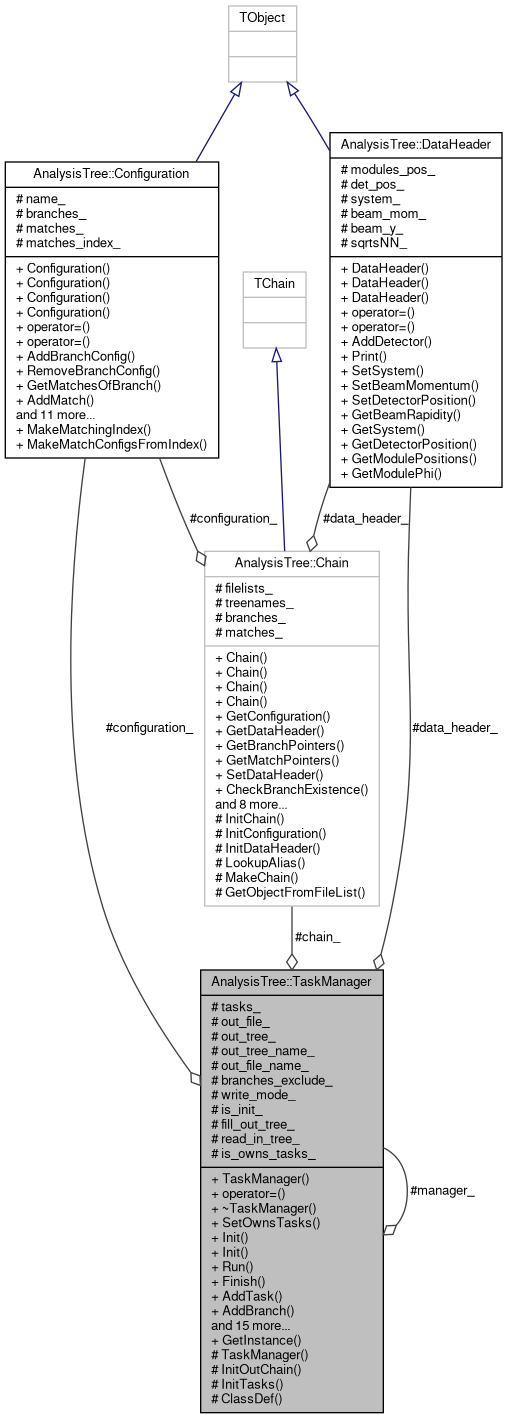
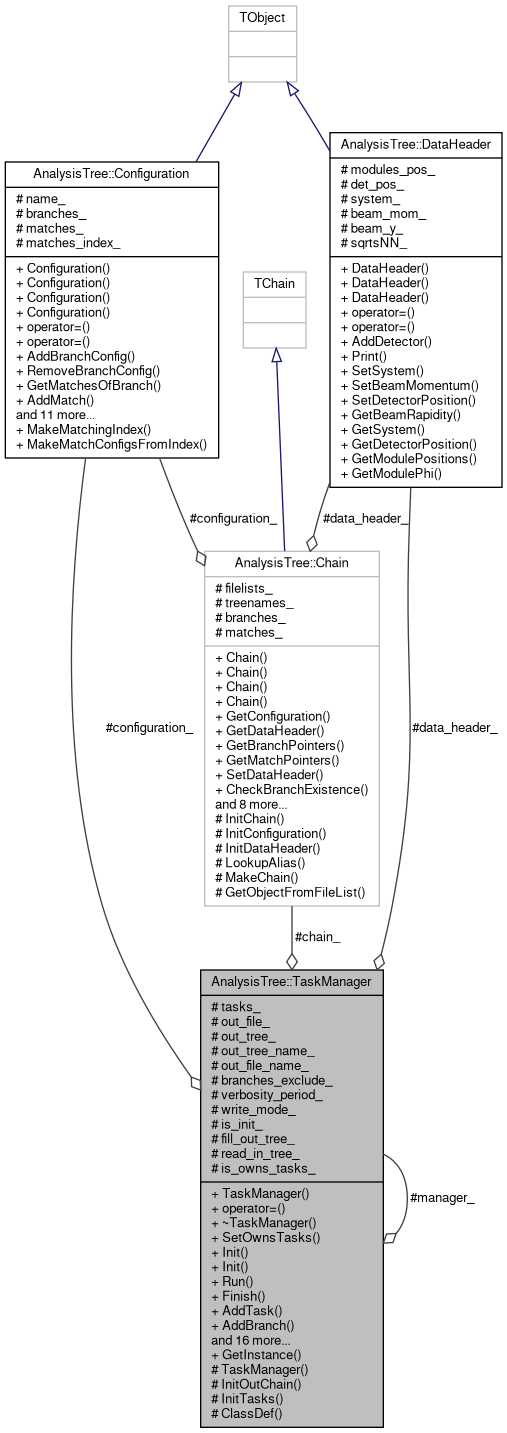
deploy: 243414fe65abaa0fc0d1889b5e8c5e2a42caa9a1

diff --git a/d5/d18/TaskManager_8hpp_source.html b/d5/d18/TaskManager_8hpp_source.html
@@ -212,42 +212,45 @@ $(function() {
 <div class="line"><a id="l00164" name="l00164"></a><span class="lineno">  164</span> </div>
 <div class="line"><a id="l00165" name="l00165"></a><span class="lineno">  165</span>  <span class="keywordtype">void</span> SetWriteMode(eBranchWriteMode mode) { write_mode_ = mode; }</div>
 <div class="line"><a id="l00166" name="l00166"></a><span class="lineno">  166</span>  <span class="keywordtype">void</span> SetBranchesExclude(std::vector&lt;std::string&gt; brex) { branches_exclude_ = std::move(brex); }</div>
-<div class="line"><a id="l00167" name="l00167"></a><span class="lineno">  167</span> </div>
-<div class="line"><a id="l00168" name="l00168"></a><span class="lineno">  168</span>  <span class="keywordtype">void</span> ClearTasks() { tasks_.clear(); }</div>
-<div class="line"><a id="l00169" name="l00169"></a><span class="lineno">  169</span> </div>
-<div class="line"><a id="l00170" name="l00170"></a><span class="lineno">  170</span> <span class="keyword">protected</span>:</div>
-<div class="line"><a id="l00171" name="l00171"></a><span class="lineno">  171</span>  TaskManager() = <span class="keywordflow">default</span>;</div>
-<div class="line"><a id="l00172" name="l00172"></a><span class="lineno">  172</span>  <span class="keyword">static</span> TaskManager* manager_;</div>
-<div class="line"><a id="l00173" name="l00173"></a><span class="lineno">  173</span> </div>
-<div class="line"><a id="l00174" name="l00174"></a><span class="lineno">  174</span>  <span class="keywordtype">void</span> InitOutChain();</div>
-<div class="line"><a id="l00175" name="l00175"></a><span class="lineno">  175</span>  <span class="keywordtype">void</span> InitTasks();</div>
-<div class="line"><a id="l00176" name="l00176"></a><span class="lineno">  176</span> </div>
-<div class="line"><a id="l00177" name="l00177"></a><span class="lineno">  177</span>  <span class="comment">// input data members</span></div>
-<div class="line"><a id="l00178" name="l00178"></a><span class="lineno">  178</span>  Chain* chain_{<span class="keyword">nullptr</span>};</div>
-<div class="line"><a id="l00179" name="l00179"></a><span class="lineno">  179</span>  std::vector&lt;Task*&gt; tasks_{};</div>
-<div class="line"><a id="l00180" name="l00180"></a><span class="lineno">  180</span> </div>
-<div class="line"><a id="l00181" name="l00181"></a><span class="lineno">  181</span>  <span class="comment">// output data members</span></div>
-<div class="line"><a id="l00182" name="l00182"></a><span class="lineno">  182</span>  TFile* out_file_{<span class="keyword">nullptr</span>};</div>
-<div class="line"><a id="l00183" name="l00183"></a><span class="lineno">  183</span>  TTree* out_tree_{<span class="keyword">nullptr</span>};</div>
-<div class="line"><a id="l00184" name="l00184"></a><span class="lineno"><a class="line" href="../../d2/d83/classAnalysisTree_1_1TaskManager.html#a8b1f2c56f901b28b1000ede1cd687cb6">  184</a></span>  <a class="code hl_class" href="../../d8/dee/classAnalysisTree_1_1Configuration.html">Configuration</a>* <a class="code hl_variable" href="../../d2/d83/classAnalysisTree_1_1TaskManager.html#a8b1f2c56f901b28b1000ede1cd687cb6">configuration_</a>{<span class="keyword">nullptr</span>};</div>
-<div class="line"><a id="l00185" name="l00185"></a><span class="lineno"><a class="line" href="../../d2/d83/classAnalysisTree_1_1TaskManager.html#ab7540a6d2044b9ed1a58ddce8c5387d5">  185</a></span>  <a class="code hl_class" href="../../d8/d77/classAnalysisTree_1_1DataHeader.html">DataHeader</a>* <a class="code hl_variable" href="../../d2/d83/classAnalysisTree_1_1TaskManager.html#ab7540a6d2044b9ed1a58ddce8c5387d5">data_header_</a>{<span class="keyword">nullptr</span>};     </div>
-<div class="line"><a id="l00186" name="l00186"></a><span class="lineno">  186</span>  std::string out_tree_name_{<span class="stringliteral">&quot;aTree&quot;</span>};</div>
-<div class="line"><a id="l00187" name="l00187"></a><span class="lineno">  187</span>  std::string out_file_name_{<span class="stringliteral">&quot;analysis_tree.root&quot;</span>};</div>
-<div class="line"><a id="l00188" name="l00188"></a><span class="lineno">  188</span>  std::vector&lt;std::string&gt; branches_exclude_{};</div>
-<div class="line"><a id="l00189" name="l00189"></a><span class="lineno">  189</span> </div>
-<div class="line"><a id="l00190" name="l00190"></a><span class="lineno">  190</span>  <span class="comment">// configuration parameters</span></div>
-<div class="line"><a id="l00191" name="l00191"></a><span class="lineno">  191</span>  eBranchWriteMode write_mode_{eBranchWriteMode::kCreateNewTree};</div>
-<div class="line"><a id="l00192" name="l00192"></a><span class="lineno">  192</span>  <span class="keywordtype">bool</span> is_init_{<span class="keyword">false</span>};</div>
-<div class="line"><a id="l00193" name="l00193"></a><span class="lineno">  193</span>  <span class="keywordtype">bool</span> fill_out_tree_{<span class="keyword">false</span>};</div>
-<div class="line"><a id="l00194" name="l00194"></a><span class="lineno">  194</span>  <span class="keywordtype">bool</span> read_in_tree_{<span class="keyword">false</span>};</div>
-<div class="line"><a id="l00195" name="l00195"></a><span class="lineno">  195</span>  <span class="keywordtype">bool</span> is_owns_tasks_{<span class="keyword">true</span>};</div>
-<div class="line"><a id="l00196" name="l00196"></a><span class="lineno">  196</span> </div>
-<div class="line"><a id="l00197" name="l00197"></a><span class="lineno">  197</span>  ClassDef(TaskManager, 0);</div>
-<div class="line"><a id="l00198" name="l00198"></a><span class="lineno">  198</span>};</div>
+<div class="line"><a id="l00167" name="l00167"></a><span class="lineno">  167</span>  <span class="keywordtype">void</span> SetVerbosityPeriod(<span class="keywordtype">int</span> value) { verbosity_period_ = value; }</div>
+<div class="line"><a id="l00168" name="l00168"></a><span class="lineno">  168</span> </div>
+<div class="line"><a id="l00169" name="l00169"></a><span class="lineno">  169</span>  <span class="keywordtype">void</span> ClearTasks() { tasks_.clear(); }</div>
+<div class="line"><a id="l00170" name="l00170"></a><span class="lineno">  170</span> </div>
+<div class="line"><a id="l00171" name="l00171"></a><span class="lineno">  171</span> <span class="keyword">protected</span>:</div>
+<div class="line"><a id="l00172" name="l00172"></a><span class="lineno">  172</span>  TaskManager() = <span class="keywordflow">default</span>;</div>
+<div class="line"><a id="l00173" name="l00173"></a><span class="lineno">  173</span>  <span class="keyword">static</span> TaskManager* manager_;</div>
+<div class="line"><a id="l00174" name="l00174"></a><span class="lineno">  174</span> </div>
+<div class="line"><a id="l00175" name="l00175"></a><span class="lineno">  175</span>  <span class="keywordtype">void</span> InitOutChain();</div>
+<div class="line"><a id="l00176" name="l00176"></a><span class="lineno">  176</span>  <span class="keywordtype">void</span> InitTasks();</div>
+<div class="line"><a id="l00177" name="l00177"></a><span class="lineno">  177</span> </div>
+<div class="line"><a id="l00178" name="l00178"></a><span class="lineno">  178</span>  <span class="comment">// input data members</span></div>
+<div class="line"><a id="l00179" name="l00179"></a><span class="lineno">  179</span>  Chain* chain_{<span class="keyword">nullptr</span>};</div>
+<div class="line"><a id="l00180" name="l00180"></a><span class="lineno">  180</span>  std::vector&lt;Task*&gt; tasks_{};</div>
+<div class="line"><a id="l00181" name="l00181"></a><span class="lineno">  181</span> </div>
+<div class="line"><a id="l00182" name="l00182"></a><span class="lineno">  182</span>  <span class="comment">// output data members</span></div>
+<div class="line"><a id="l00183" name="l00183"></a><span class="lineno">  183</span>  TFile* out_file_{<span class="keyword">nullptr</span>};</div>
+<div class="line"><a id="l00184" name="l00184"></a><span class="lineno">  184</span>  TTree* out_tree_{<span class="keyword">nullptr</span>};</div>
+<div class="line"><a id="l00185" name="l00185"></a><span class="lineno"><a class="line" href="../../d2/d83/classAnalysisTree_1_1TaskManager.html#a8b1f2c56f901b28b1000ede1cd687cb6">  185</a></span>  <a class="code hl_class" href="../../d8/dee/classAnalysisTree_1_1Configuration.html">Configuration</a>* <a class="code hl_variable" href="../../d2/d83/classAnalysisTree_1_1TaskManager.html#a8b1f2c56f901b28b1000ede1cd687cb6">configuration_</a>{<span class="keyword">nullptr</span>};</div>
+<div class="line"><a id="l00186" name="l00186"></a><span class="lineno"><a class="line" href="../../d2/d83/classAnalysisTree_1_1TaskManager.html#ab7540a6d2044b9ed1a58ddce8c5387d5">  186</a></span>  <a class="code hl_class" href="../../d8/d77/classAnalysisTree_1_1DataHeader.html">DataHeader</a>* <a class="code hl_variable" href="../../d2/d83/classAnalysisTree_1_1TaskManager.html#ab7540a6d2044b9ed1a58ddce8c5387d5">data_header_</a>{<span class="keyword">nullptr</span>};     </div>
+<div class="line"><a id="l00187" name="l00187"></a><span class="lineno">  187</span>  std::string out_tree_name_{<span class="stringliteral">&quot;aTree&quot;</span>};</div>
+<div class="line"><a id="l00188" name="l00188"></a><span class="lineno">  188</span>  std::string out_file_name_{<span class="stringliteral">&quot;analysis_tree.root&quot;</span>};</div>
+<div class="line"><a id="l00189" name="l00189"></a><span class="lineno">  189</span>  std::vector&lt;std::string&gt; branches_exclude_{};</div>
+<div class="line"><a id="l00190" name="l00190"></a><span class="lineno">  190</span> </div>
+<div class="line"><a id="l00191" name="l00191"></a><span class="lineno">  191</span>  <span class="keywordtype">int</span> verbosity_period_{-1};</div>
+<div class="line"><a id="l00192" name="l00192"></a><span class="lineno">  192</span> </div>
+<div class="line"><a id="l00193" name="l00193"></a><span class="lineno">  193</span>  <span class="comment">// configuration parameters</span></div>
+<div class="line"><a id="l00194" name="l00194"></a><span class="lineno">  194</span>  eBranchWriteMode write_mode_{eBranchWriteMode::kCreateNewTree};</div>
+<div class="line"><a id="l00195" name="l00195"></a><span class="lineno">  195</span>  <span class="keywordtype">bool</span> is_init_{<span class="keyword">false</span>};</div>
+<div class="line"><a id="l00196" name="l00196"></a><span class="lineno">  196</span>  <span class="keywordtype">bool</span> fill_out_tree_{<span class="keyword">false</span>};</div>
+<div class="line"><a id="l00197" name="l00197"></a><span class="lineno">  197</span>  <span class="keywordtype">bool</span> read_in_tree_{<span class="keyword">false</span>};</div>
+<div class="line"><a id="l00198" name="l00198"></a><span class="lineno">  198</span>  <span class="keywordtype">bool</span> is_owns_tasks_{<span class="keyword">true</span>};</div>
 <div class="line"><a id="l00199" name="l00199"></a><span class="lineno">  199</span> </div>
-<div class="line"><a id="l00200" name="l00200"></a><span class="lineno">  200</span>};<span class="comment">// namespace AnalysisTree</span></div>
-<div class="line"><a id="l00201" name="l00201"></a><span class="lineno">  201</span> </div>
-<div class="line"><a id="l00202" name="l00202"></a><span class="lineno">  202</span><span class="preprocessor">#endif</span><span class="comment">//ANALYSISTREE_INFRA_TASKMANANGERNEW_HPP_</span></div>
+<div class="line"><a id="l00200" name="l00200"></a><span class="lineno">  200</span>  ClassDef(TaskManager, 0);</div>
+<div class="line"><a id="l00201" name="l00201"></a><span class="lineno">  201</span>};</div>
+<div class="line"><a id="l00202" name="l00202"></a><span class="lineno">  202</span> </div>
+<div class="line"><a id="l00203" name="l00203"></a><span class="lineno">  203</span>};<span class="comment">// namespace AnalysisTree</span></div>
+<div class="line"><a id="l00204" name="l00204"></a><span class="lineno">  204</span> </div>
+<div class="line"><a id="l00205" name="l00205"></a><span class="lineno">  205</span><span class="preprocessor">#endif</span><span class="comment">//ANALYSISTREE_INFRA_TASKMANANGERNEW_HPP_</span></div>
 <div class="ttc" id="aclassAnalysisTree_1_1BranchConfig_html"><div class="ttname"><a href="../../d8/d4c/classAnalysisTree_1_1BranchConfig.html">AnalysisTree::BranchConfig</a></div><div class="ttdoc">A class to store configuration of the Container.</div><div class="ttdef"><b>Definition:</b> BranchConfig.hpp:102</div></div>
 <div class="ttc" id="aclassAnalysisTree_1_1Branch_html"><div class="ttname"><a href="../../d2/d4d/classAnalysisTree_1_1Branch.html">AnalysisTree::Branch</a></div><div class="ttdef"><b>Definition:</b> Branch.hpp:23</div></div>
 <div class="ttc" id="aclassAnalysisTree_1_1Configuration_html"><div class="ttname"><a href="../../d8/dee/classAnalysisTree_1_1Configuration.html">AnalysisTree::Configuration</a></div><div class="ttdoc">A class to store configuration of the whole AnalysisTree object.</div><div class="ttdef"><b>Definition:</b> Configuration.hpp:58</div></div>
@@ -258,9 +261,9 @@ $(function() {
 <div class="ttc" id="aclassAnalysisTree_1_1TaskManager_html_a11a064f466596832a85d7a0fcf95417f"><div class="ttname"><a href="../../d2/d83/classAnalysisTree_1_1TaskManager.html#a11a064f466596832a85d7a0fcf95417f">AnalysisTree::TaskManager::Init</a></div><div class="ttdeci">virtual void Init()</div><div class="ttdef"><b>Definition:</b> TaskManager.cpp:50</div></div>
 <div class="ttc" id="aclassAnalysisTree_1_1TaskManager_html_a3884e7be7b33f2efe8403a55fd08e617"><div class="ttname"><a href="../../d2/d83/classAnalysisTree_1_1TaskManager.html#a3884e7be7b33f2efe8403a55fd08e617">AnalysisTree::TaskManager::SetOwnsTasks</a></div><div class="ttdeci">void SetOwnsTasks(bool owns_flag=true)</div><div class="ttdoc">If TaskManager owns its tasks, they will be deleted on TaskManager' destruction.</div><div class="ttdef"><b>Definition:</b> TaskManager.hpp:45</div></div>
 <div class="ttc" id="aclassAnalysisTree_1_1TaskManager_html_a58dac689de25cdb7b5757ae629677507"><div class="ttname"><a href="../../d2/d83/classAnalysisTree_1_1TaskManager.html#a58dac689de25cdb7b5757ae629677507">AnalysisTree::TaskManager::AddBranch</a></div><div class="ttdeci">void AddBranch(BranchPtr *&amp;ptr, const BranchConfig &amp;config)</div><div class="ttdef"><b>Definition:</b> TaskManager.hpp:69</div></div>
-<div class="ttc" id="aclassAnalysisTree_1_1TaskManager_html_a8b1f2c56f901b28b1000ede1cd687cb6"><div class="ttname"><a href="../../d2/d83/classAnalysisTree_1_1TaskManager.html#a8b1f2c56f901b28b1000ede1cd687cb6">AnalysisTree::TaskManager::configuration_</a></div><div class="ttdeci">Configuration * configuration_</div><div class="ttdoc">output</div><div class="ttdef"><b>Definition:</b> TaskManager.hpp:184</div></div>
+<div class="ttc" id="aclassAnalysisTree_1_1TaskManager_html_a8b1f2c56f901b28b1000ede1cd687cb6"><div class="ttname"><a href="../../d2/d83/classAnalysisTree_1_1TaskManager.html#a8b1f2c56f901b28b1000ede1cd687cb6">AnalysisTree::TaskManager::configuration_</a></div><div class="ttdeci">Configuration * configuration_</div><div class="ttdoc">output</div><div class="ttdef"><b>Definition:</b> TaskManager.hpp:185</div></div>
 <div class="ttc" id="aclassAnalysisTree_1_1TaskManager_html_aa4ab4ad6b152b4d3c02337fe1b00801e"><div class="ttname"><a href="../../d2/d83/classAnalysisTree_1_1TaskManager.html#aa4ab4ad6b152b4d3c02337fe1b00801e">AnalysisTree::TaskManager::AddMatching</a></div><div class="ttdeci">void AddMatching(const std::string &amp;br1, const std::string &amp;br2, Matching *&amp;match)</div><div class="ttdef"><b>Definition:</b> TaskManager.hpp:119</div></div>
-<div class="ttc" id="aclassAnalysisTree_1_1TaskManager_html_ab7540a6d2044b9ed1a58ddce8c5387d5"><div class="ttname"><a href="../../d2/d83/classAnalysisTree_1_1TaskManager.html#ab7540a6d2044b9ed1a58ddce8c5387d5">AnalysisTree::TaskManager::data_header_</a></div><div class="ttdeci">DataHeader * data_header_</div><div class="ttdoc">output</div><div class="ttdef"><b>Definition:</b> TaskManager.hpp:185</div></div>
+<div class="ttc" id="aclassAnalysisTree_1_1TaskManager_html_ab7540a6d2044b9ed1a58ddce8c5387d5"><div class="ttname"><a href="../../d2/d83/classAnalysisTree_1_1TaskManager.html#ab7540a6d2044b9ed1a58ddce8c5387d5">AnalysisTree::TaskManager::data_header_</a></div><div class="ttdeci">DataHeader * data_header_</div><div class="ttdoc">output</div><div class="ttdef"><b>Definition:</b> TaskManager.hpp:186</div></div>
 <div class="ttc" id="aclassAnalysisTree_1_1TaskManager_html_ab855b806c375c592324e23fe756957d1"><div class="ttname"><a href="../../d2/d83/classAnalysisTree_1_1TaskManager.html#ab855b806c375c592324e23fe756957d1">AnalysisTree::TaskManager::GetInstance</a></div><div class="ttdeci">static TaskManager * GetInstance()</div><div class="ttdef"><b>Definition:</b> TaskManager.cpp:12</div></div>
 <div class="ttc" id="aclassAnalysisTree_1_1Task_html"><div class="ttname"><a href="../../d8/dcf/classAnalysisTree_1_1Task.html">AnalysisTree::Task</a></div><div class="ttdef"><b>Definition:</b> Task.hpp:25</div></div>
 <div class="ttc" id="anamespaceAnalysisTree_html"><div class="ttname"><a href="../../d9/d26/namespaceAnalysisTree.html">AnalysisTree</a></div><div class="ttdoc">Cuts keep list of SimpleCuts. Logical AND is applied for all SimpleCut in the Cuts object.</div><div class="ttdef"><b>Definition:</b> BranchConfig.cpp:10</div></div>

diff --git a/dc/dd7/classAnalysisTree_1_1TaskManager-members.html b/dc/dd7/classAnalysisTree_1_1TaskManager-members.html
@@ -110,11 +110,13 @@ $(function() {
   <tr bgcolor="#f0f0f0" class="odd"><td class="entry"><b>SetOutputDataHeader</b>(DataHeader *dh) (defined in <a class="el" href="../../d2/d83/classAnalysisTree_1_1TaskManager.html">AnalysisTree::TaskManager</a>)</td><td class="entry"><a class="el" href="../../d2/d83/classAnalysisTree_1_1TaskManager.html">AnalysisTree::TaskManager</a></td><td class="entry"><span class="mlabel">inline</span></td></tr>
   <tr bgcolor="#f0f0f0" class="even"><td class="entry"><b>SetOutputName</b>(std::string file, std::string tree=&quot;aTree&quot;) (defined in <a class="el" href="../../d2/d83/classAnalysisTree_1_1TaskManager.html">AnalysisTree::TaskManager</a>)</td><td class="entry"><a class="el" href="../../d2/d83/classAnalysisTree_1_1TaskManager.html">AnalysisTree::TaskManager</a></td><td class="entry"><span class="mlabel">inline</span></td></tr>
   <tr class="odd"><td class="entry"><a class="el" href="../../d2/d83/classAnalysisTree_1_1TaskManager.html#a3884e7be7b33f2efe8403a55fd08e617">SetOwnsTasks</a>(bool owns_flag=true)</td><td class="entry"><a class="el" href="../../d2/d83/classAnalysisTree_1_1TaskManager.html">AnalysisTree::TaskManager</a></td><td class="entry"><span class="mlabel">inline</span></td></tr>
-  <tr bgcolor="#f0f0f0" class="even"><td class="entry"><b>SetWriteMode</b>(eBranchWriteMode mode) (defined in <a class="el" href="../../d2/d83/classAnalysisTree_1_1TaskManager.html">AnalysisTree::TaskManager</a>)</td><td class="entry"><a class="el" href="../../d2/d83/classAnalysisTree_1_1TaskManager.html">AnalysisTree::TaskManager</a></td><td class="entry"><span class="mlabel">inline</span></td></tr>
-  <tr bgcolor="#f0f0f0" class="odd"><td class="entry"><b>TaskManager</b>(TaskManager &amp;other)=delete (defined in <a class="el" href="../../d2/d83/classAnalysisTree_1_1TaskManager.html">AnalysisTree::TaskManager</a>)</td><td class="entry"><a class="el" href="../../d2/d83/classAnalysisTree_1_1TaskManager.html">AnalysisTree::TaskManager</a></td><td class="entry"></td></tr>
-  <tr bgcolor="#f0f0f0" class="even"><td class="entry"><b>TaskManager</b>()=default (defined in <a class="el" href="../../d2/d83/classAnalysisTree_1_1TaskManager.html">AnalysisTree::TaskManager</a>)</td><td class="entry"><a class="el" href="../../d2/d83/classAnalysisTree_1_1TaskManager.html">AnalysisTree::TaskManager</a></td><td class="entry"><span class="mlabel">protected</span></td></tr>
-  <tr bgcolor="#f0f0f0" class="odd"><td class="entry"><b>Tasks</b>() (defined in <a class="el" href="../../d2/d83/classAnalysisTree_1_1TaskManager.html">AnalysisTree::TaskManager</a>)</td><td class="entry"><a class="el" href="../../d2/d83/classAnalysisTree_1_1TaskManager.html">AnalysisTree::TaskManager</a></td><td class="entry"><span class="mlabel">inline</span></td></tr>
-  <tr bgcolor="#f0f0f0" class="even"><td class="entry"><b>tasks_</b> (defined in <a class="el" href="../../d2/d83/classAnalysisTree_1_1TaskManager.html">AnalysisTree::TaskManager</a>)</td><td class="entry"><a class="el" href="../../d2/d83/classAnalysisTree_1_1TaskManager.html">AnalysisTree::TaskManager</a></td><td class="entry"><span class="mlabel">protected</span></td></tr>
+  <tr bgcolor="#f0f0f0" class="even"><td class="entry"><b>SetVerbosityPeriod</b>(int value) (defined in <a class="el" href="../../d2/d83/classAnalysisTree_1_1TaskManager.html">AnalysisTree::TaskManager</a>)</td><td class="entry"><a class="el" href="../../d2/d83/classAnalysisTree_1_1TaskManager.html">AnalysisTree::TaskManager</a></td><td class="entry"><span class="mlabel">inline</span></td></tr>
+  <tr bgcolor="#f0f0f0" class="odd"><td class="entry"><b>SetWriteMode</b>(eBranchWriteMode mode) (defined in <a class="el" href="../../d2/d83/classAnalysisTree_1_1TaskManager.html">AnalysisTree::TaskManager</a>)</td><td class="entry"><a class="el" href="../../d2/d83/classAnalysisTree_1_1TaskManager.html">AnalysisTree::TaskManager</a></td><td class="entry"><span class="mlabel">inline</span></td></tr>
+  <tr bgcolor="#f0f0f0" class="even"><td class="entry"><b>TaskManager</b>(TaskManager &amp;other)=delete (defined in <a class="el" href="../../d2/d83/classAnalysisTree_1_1TaskManager.html">AnalysisTree::TaskManager</a>)</td><td class="entry"><a class="el" href="../../d2/d83/classAnalysisTree_1_1TaskManager.html">AnalysisTree::TaskManager</a></td><td class="entry"></td></tr>
+  <tr bgcolor="#f0f0f0" class="odd"><td class="entry"><b>TaskManager</b>()=default (defined in <a class="el" href="../../d2/d83/classAnalysisTree_1_1TaskManager.html">AnalysisTree::TaskManager</a>)</td><td class="entry"><a class="el" href="../../d2/d83/classAnalysisTree_1_1TaskManager.html">AnalysisTree::TaskManager</a></td><td class="entry"><span class="mlabel">protected</span></td></tr>
+  <tr bgcolor="#f0f0f0" class="even"><td class="entry"><b>Tasks</b>() (defined in <a class="el" href="../../d2/d83/classAnalysisTree_1_1TaskManager.html">AnalysisTree::TaskManager</a>)</td><td class="entry"><a class="el" href="../../d2/d83/classAnalysisTree_1_1TaskManager.html">AnalysisTree::TaskManager</a></td><td class="entry"><span class="mlabel">inline</span></td></tr>
+  <tr bgcolor="#f0f0f0" class="odd"><td class="entry"><b>tasks_</b> (defined in <a class="el" href="../../d2/d83/classAnalysisTree_1_1TaskManager.html">AnalysisTree::TaskManager</a>)</td><td class="entry"><a class="el" href="../../d2/d83/classAnalysisTree_1_1TaskManager.html">AnalysisTree::TaskManager</a></td><td class="entry"><span class="mlabel">protected</span></td></tr>
+  <tr bgcolor="#f0f0f0" class="even"><td class="entry"><b>verbosity_period_</b> (defined in <a class="el" href="../../d2/d83/classAnalysisTree_1_1TaskManager.html">AnalysisTree::TaskManager</a>)</td><td class="entry"><a class="el" href="../../d2/d83/classAnalysisTree_1_1TaskManager.html">AnalysisTree::TaskManager</a></td><td class="entry"><span class="mlabel">protected</span></td></tr>
   <tr bgcolor="#f0f0f0" class="odd"><td class="entry"><b>write_mode_</b> (defined in <a class="el" href="../../d2/d83/classAnalysisTree_1_1TaskManager.html">AnalysisTree::TaskManager</a>)</td><td class="entry"><a class="el" href="../../d2/d83/classAnalysisTree_1_1TaskManager.html">AnalysisTree::TaskManager</a></td><td class="entry"><span class="mlabel">protected</span></td></tr>
   <tr bgcolor="#f0f0f0" class="even"><td class="entry"><b>~TaskManager</b>() (defined in <a class="el" href="../../d2/d83/classAnalysisTree_1_1TaskManager.html">AnalysisTree::TaskManager</a>)</td><td class="entry"><a class="el" href="../../d2/d83/classAnalysisTree_1_1TaskManager.html">AnalysisTree::TaskManager</a></td><td class="entry"><span class="mlabel">virtual</span></td></tr>
 </table></div><!-- contents -->

diff --git a/d2/d83/classAnalysisTree_1_1TaskManager.html b/d2/d83/classAnalysisTree_1_1TaskManager.html
@@ -81,7 +81,7 @@ Collaboration diagram for AnalysisTree::TaskManager:</div>
 <div class="dyncontent">
 <div class="center"><img src="../../d7/d18/classAnalysisTree_1_1TaskManager__coll__graph.png" border="0" usemap="#aAnalysisTree_1_1TaskManager_coll__map" alt="Collaboration graph"/></div>
 <map name="aAnalysisTree_1_1TaskManager_coll__map" id="aAnalysisTree_1_1TaskManager_coll__map">
-<area shape="rect" title=" " alt="" coords="201,969,383,1413"/>
+<area shape="rect" title=" " alt="" coords="201,969,383,1428"/>
 <area shape="rect" href="../../d7/d86/classAnalysisTree_1_1Chain.html" title=" " alt="" coords="205,551,379,907"/>
 <area shape="rect" title=" " alt="" coords="243,271,306,349"/>
 <area shape="rect" href="../../d8/dee/classAnalysisTree_1_1Configuration.html" title="A class to store configuration of the whole AnalysisTree object." alt="" coords="5,161,219,459"/>
@@ -158,6 +158,9 @@ void&#160;</td><td class="memItemRight" valign="bottom"><b>SetWriteMode</b> (eBr
 <tr class="memitem:abb03e9a5a745df17d076a67a210e18ea"><td class="memItemLeft" align="right" valign="top"><a id="abb03e9a5a745df17d076a67a210e18ea" name="abb03e9a5a745df17d076a67a210e18ea"></a>
 void&#160;</td><td class="memItemRight" valign="bottom"><b>SetBranchesExclude</b> (std::vector&lt; std::string &gt; brex)</td></tr>
 <tr class="separator:abb03e9a5a745df17d076a67a210e18ea"><td class="memSeparator" colspan="2">&#160;</td></tr>
+<tr class="memitem:a45b6c8ab9a126632fbeabef0f6f142e8"><td class="memItemLeft" align="right" valign="top"><a id="a45b6c8ab9a126632fbeabef0f6f142e8" name="a45b6c8ab9a126632fbeabef0f6f142e8"></a>
+void&#160;</td><td class="memItemRight" valign="bottom"><b>SetVerbosityPeriod</b> (int value)</td></tr>
+<tr class="separator:a45b6c8ab9a126632fbeabef0f6f142e8"><td class="memSeparator" colspan="2">&#160;</td></tr>
 <tr class="memitem:a3b845766f0dfa3d59de8dc99d8876f08"><td class="memItemLeft" align="right" valign="top"><a id="a3b845766f0dfa3d59de8dc99d8876f08" name="a3b845766f0dfa3d59de8dc99d8876f08"></a>
 void&#160;</td><td class="memItemRight" valign="bottom"><b>ClearTasks</b> ()</td></tr>
 <tr class="separator:a3b845766f0dfa3d59de8dc99d8876f08"><td class="memSeparator" colspan="2">&#160;</td></tr>
@@ -210,6 +213,9 @@ std::string&#160;</td><td class="memItemRight" valign="bottom"><b>out_file_name_
 <tr class="memitem:ae125e649e1f3528cbd31157762ecf9d5"><td class="memItemLeft" align="right" valign="top"><a id="ae125e649e1f3528cbd31157762ecf9d5" name="ae125e649e1f3528cbd31157762ecf9d5"></a>
 std::vector&lt; std::string &gt;&#160;</td><td class="memItemRight" valign="bottom"><b>branches_exclude_</b> {}</td></tr>
 <tr class="separator:ae125e649e1f3528cbd31157762ecf9d5"><td class="memSeparator" colspan="2">&#160;</td></tr>
+<tr class="memitem:a106de78d00241295560e63e2e0930631"><td class="memItemLeft" align="right" valign="top"><a id="a106de78d00241295560e63e2e0930631" name="a106de78d00241295560e63e2e0930631"></a>
+int&#160;</td><td class="memItemRight" valign="bottom"><b>verbosity_period_</b> {-1}</td></tr>
+<tr class="separator:a106de78d00241295560e63e2e0930631"><td class="memSeparator" colspan="2">&#160;</td></tr>
 <tr class="memitem:aa8ba3077f13a55409bcd258f2bc71ce5"><td class="memItemLeft" align="right" valign="top"><a id="aa8ba3077f13a55409bcd258f2bc71ce5" name="aa8ba3077f13a55409bcd258f2bc71ce5"></a>
 eBranchWriteMode&#160;</td><td class="memItemRight" valign="bottom"><b>write_mode_</b> {eBranchWriteMode::kCreateNewTree}</td></tr>
 <tr class="separator:aa8ba3077f13a55409bcd258f2bc71ce5"><td class="memSeparator" colspan="2">&#160;</td></tr>
